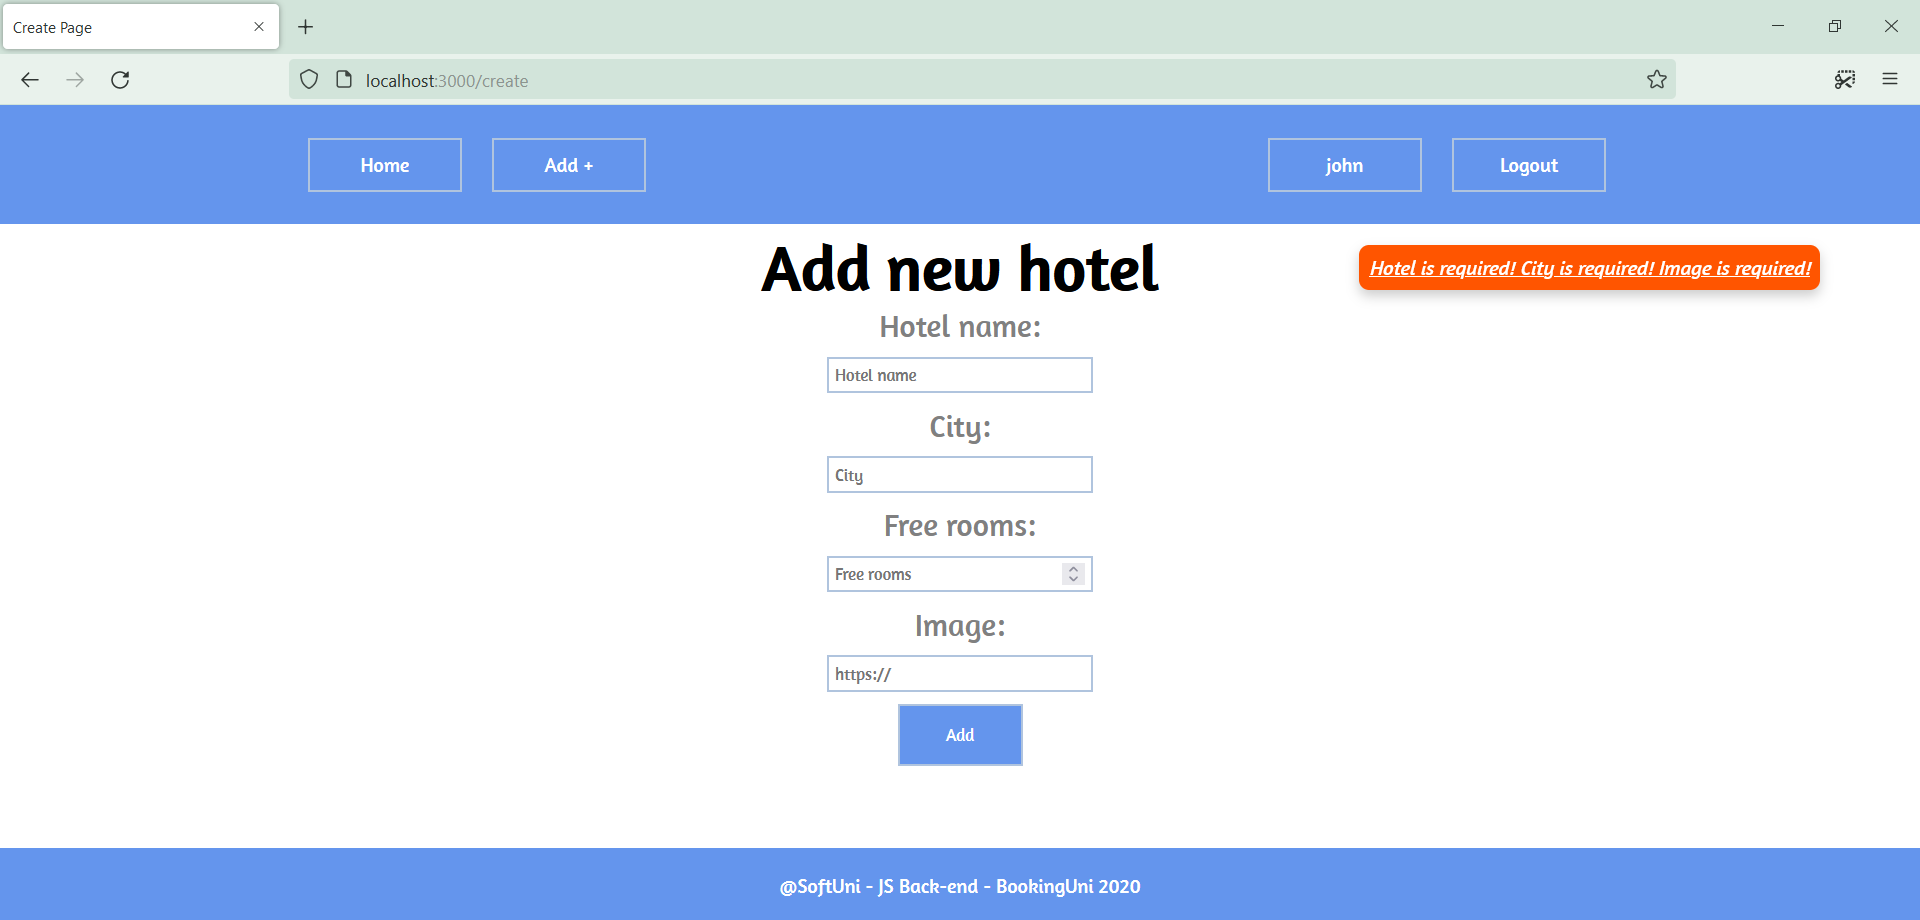
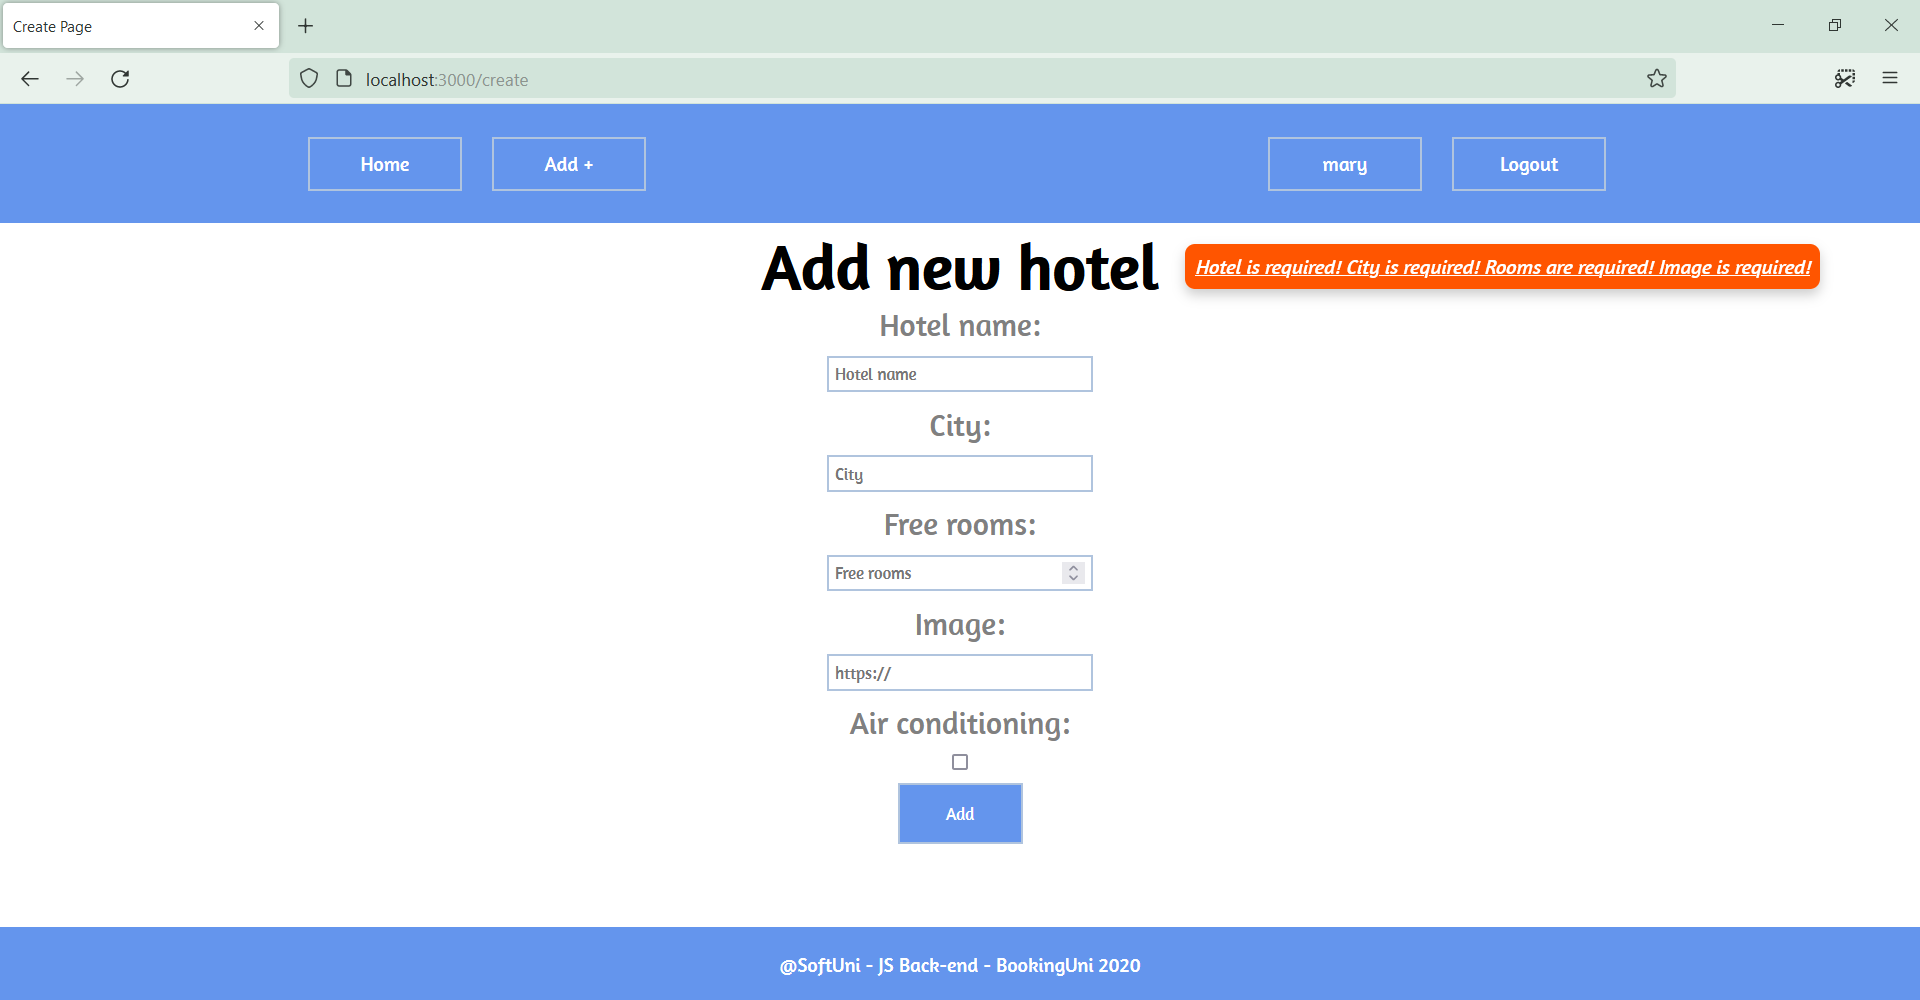
Update README.md

Changed region(s): [[0.0, 0.0, 1.0, 0.8522], [0.0, 0.913, 1.0, 0.9739]]

diff --git a/models/Hotel.js b/models/Hotel.js
@@ -14,7 +14,9 @@ const hotelSchema = new Schema({
         minlength: [3, 'City should be at least 4 characters!']
     },
     rooms: {
-        type: Number, min: [1, 'The number of free rooms should be between 1 and 100'],
+        type: Number,
+        required: [true, 'Rooms are required!'],
+        min: [1, 'The number of free rooms should be between 1 and 100'],
         max: [100, 'The number of free rooms should be between 1 and 100']
     },
     imgUrl: {

diff --git a/README.md b/README.md
@@ -1,6 +1,6 @@
 # Booking Uni
 
-### SoftUni - JS Back-end - Exam 2020
+#### SoftUni - JS Back-end - Exam 2020
 
 ## Used in this project:
 
@@ -12,10 +12,11 @@
 - Application must start from file "index.js" on port 3000
 
 ## Start:
-- download this repo
-- npm install
-- npm run start
+- `$ git clone https://github.com/yveette/Booking-Uni`
+- `npm install`
+- `npm run start`
 - open http://localhost:3000
+- can use the GUI for MongoDB -> [MongoDB Compass](https://www.mongodb.com/products/compass)
 - enjoy
 
 ## Users:
@@ -35,7 +36,7 @@
 
 ## Database Models
 
-### User
+### User:
 
 - Email - string (required), unique,
 - Username – string (required), unique,
@@ -43,7 +44,7 @@
 - Booked hotels - a collection of Hotels the user have booked already,
 - Offered Hotels – a collection of Hotels the user offers
 
-### Hotel
+### Hotel:
 
 - Name - string (required), unique
 - City - string (required),
@@ -88,53 +89,66 @@ Enter hotel name, city, image URL and free rooms. After the hotel is created suc
 ### Hotel Details Page
 By clicking the picture of a hotel on Home page listed hotels, the user should see the Details page.
 
-
 #### Not booked hotel (Logged in User)
+<details>
+    <summary>Click to expand for more info!</summary>
 If the user has no reservation for this hotel, you should display Book button (a-tag) and the user can book a room.
-#### Booked Hotel (Logged in User)
-After the user has booked a room, the "You already have booking" should be shown instead of the [Book] button.
-#### Hotel Creator (Logged in User)
-The creator of the hotel should see [Delete] [Edit]
+![Details Page View](https://github.com/yveette/Booking-Uni/blob/main/readme_files/details_book.png)
+</details>
 
+#### Booked Hotel (Logged in User)
+<details>
+    <summary>Click to expand for more info!</summary>
+After the user has booked a room, the "You already have booking" should be shown instead of the [Book] button.
+![Details Page View](https://github.com/yveette/Booking-Uni/blob/main/readme_files/details_booked.png)
+</details>
+
+#### Hotel Creator (Logged in User)
+<details>
+    <summary>Click to expand for more info!</summary>
+The creator of the hotel should see [Delete] [Edit]
+![Details Page View](https://github.com/yveette/Booking-Uni/blob/main/readme_files/details_owner.png)
+</details>
 
 ### Edit Hotel (Logged in User)
 All form fields should be filled with the corresponding information of the selected hotel. When a put request is sent (clicking over [Edit] button), you should be redirected to the Details page.
-
+![Edit Page View](https://github.com/yveette/Booking-Uni/blob/main/readme_files/edit_page.png)
 
 ### Delete Hotel (Logged in User)
 Upon deleting a lecture (clicking over [Delete] button), you should be redirected to the home page.
 
-
-### Profile Page
+### Profile Page - Bonus
 Profile Page shows the information of the user as shown on the picture.
 Reservations – is a string:  all the names of the booked from the user hotels separated by semi-colon.
-
-
+![Profile Page View](https://github.com/yveette/Booking-Uni/blob/main/readme_files/profile_page.png)
 
 
 ## Validation and Error Handling
 The application should notify the users about result of their actions.
 
 ### Login / Register
-- The email should be a valid email and should consist english letters and digits
-- The password should be at least 5 characters long and should consist only english letters and digits
+- The email should be a **valid email** and should consist **english letters and digits**
+- The password should be **at least 5 characters long** and should consist **only english letters and digits**
 - The repeat password should be equal to the password
 
 ### Hotel
-- The name should be at least 4 characters
-- The city should be at least 3 characters long
-- The imageUrl should starts with http or https
-- The number of free rooms should be between 1 and 100
+- The name should be **at least 4 characters**
+- The city should be **at least 3 characters long**
+- The imageUrl should starts with **http** or **https**
+- The number of free rooms should be between **1** and **100**
 
 ## Security Requirements
-
 The Security Requirements are mainly access requirements. Configurations about which users can access specific functionalities and pages.
-- Guest (not logged in) users can access Home page.
-- Guest (not logged in) users can access Login page and functionality.
-- Guest (not logged in) users can access Register page and functionality.
-- Users (logged in) can access Home page page and functionality.
-- Users (logged in) can access Hotel Details page and functionality.
-- Users (not hotel creator) can Book once a room for hotel.
-- Users (hotel creator) can Edit and Delete the current hotel
-- Users (logged in) can access Create Hotel page and functionality.
-- Users (logged in) can access Logout functionality.
+
+### Guest (not logged in):
+- users can access Home page.
+- users can access Login page and functionality.
+- users can access Register page and functionality.
+
+### Users (logged in):
+- can access Home page page and functionality.
+- can access Hotel Details page and functionality.
+- can Book once a room for hotel. (not hotel creator)
+- can Edit and Delete the current hotel. (hotel creator)
+- can access Create Hotel page and functionality.
+- can access Logout functionality.
